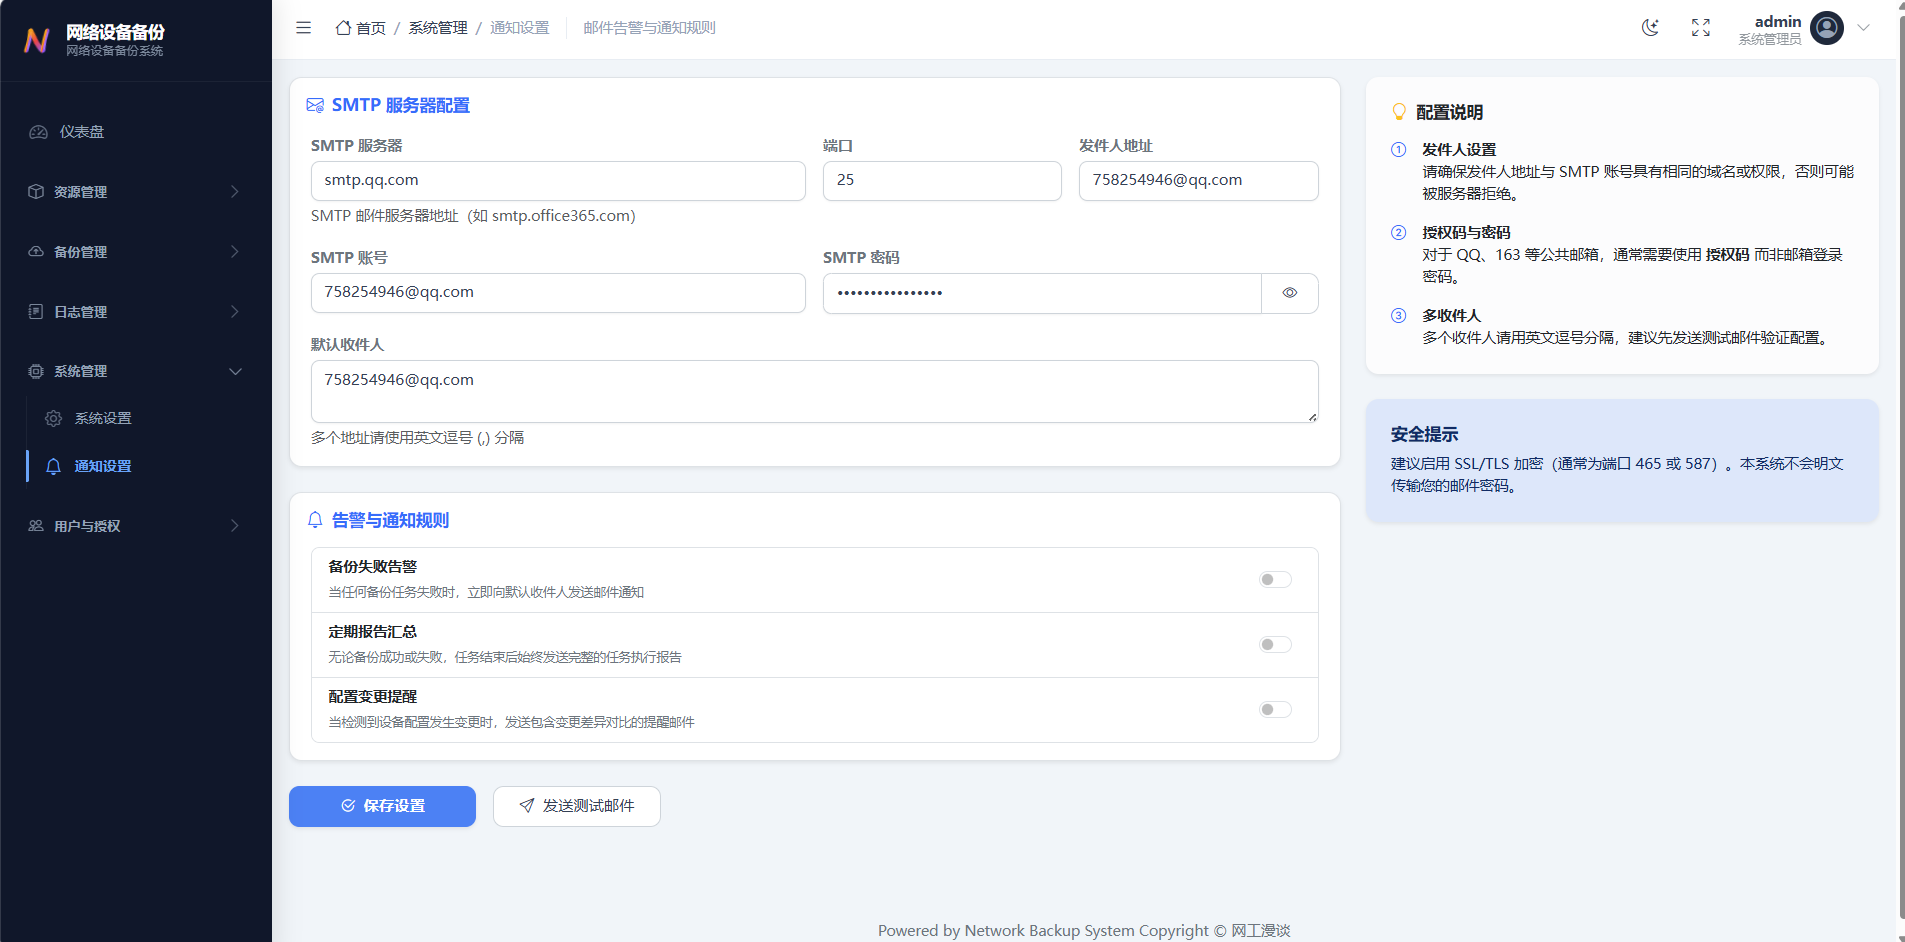
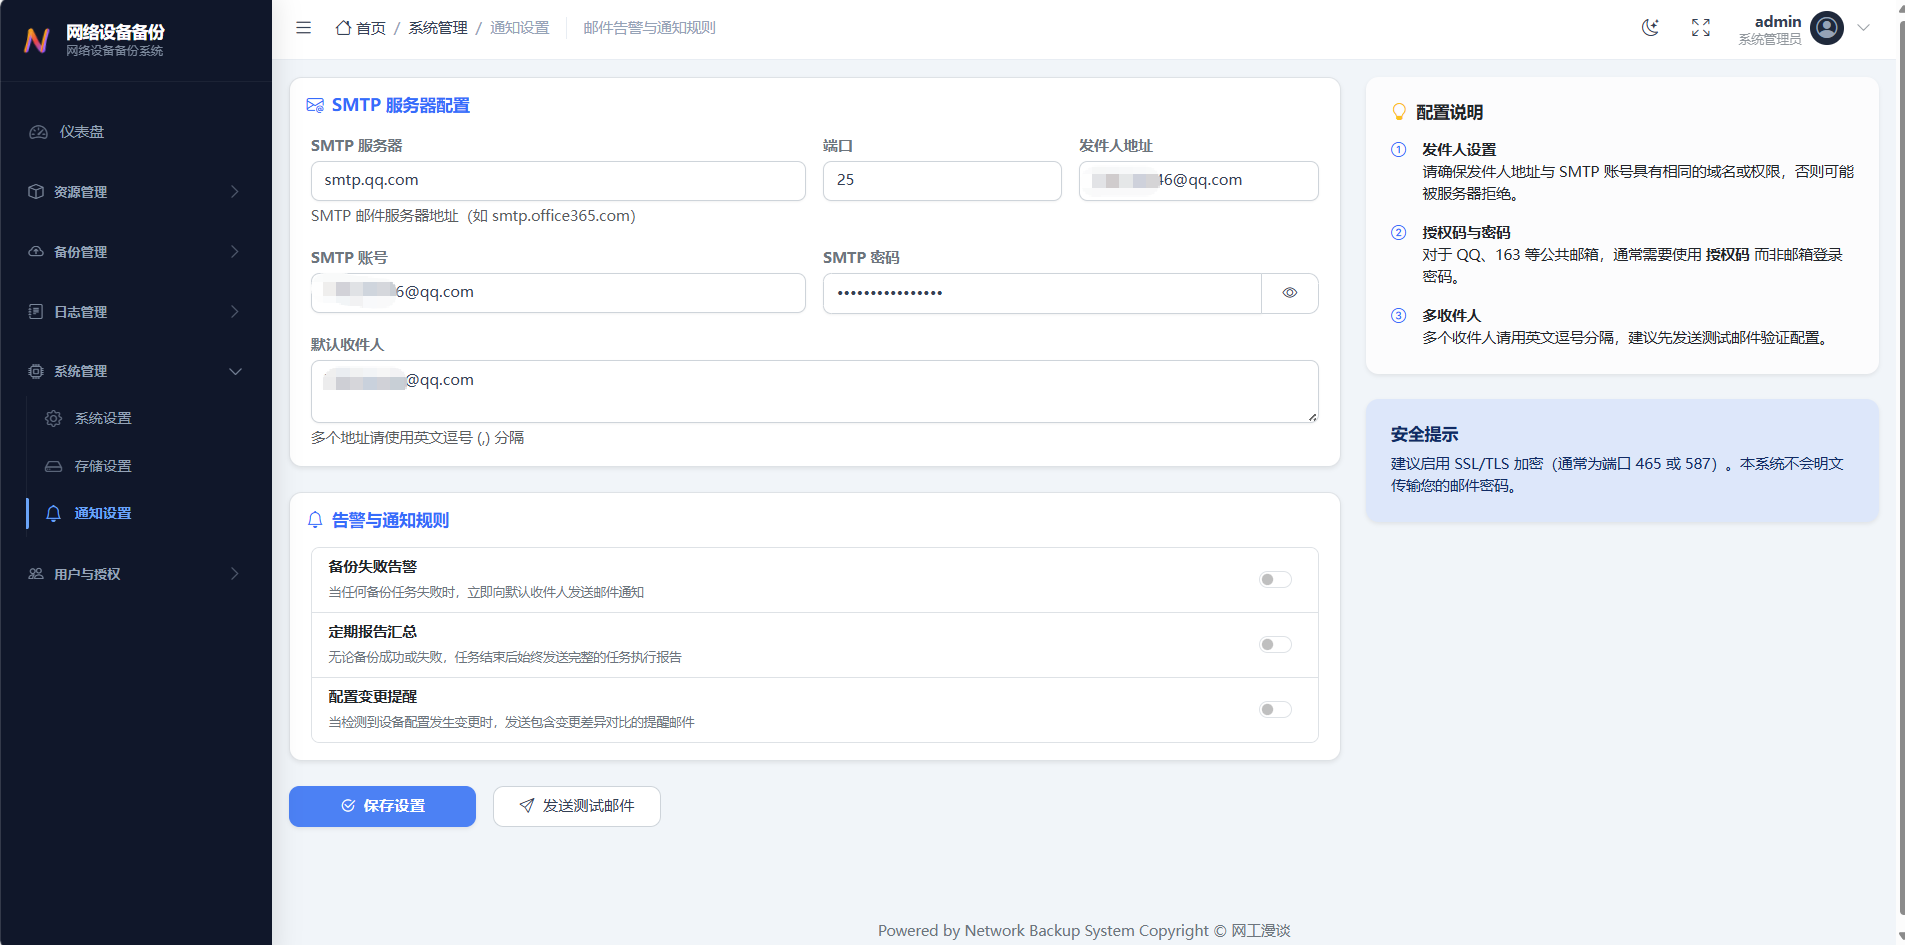
文档更新

diff --git a/README.md b/README.md
@@ -236,10 +236,12 @@ docker-compose up -d --build
 
 ### 系统管理 (System Management)
 ![系统设置](image/settings.png)
-
+### 通知设置 (Notifications)
 ![通知设置](image/notifications.png)
+## 存储设置 (Storage Settings)
+![存储设置](image/storage.png)
 
-### 用户管理 (User Management)
+### 用户和权限 (User Management)
 ![用户管理](image/users.png)
 ![角色管理](image/roles.png)
 
